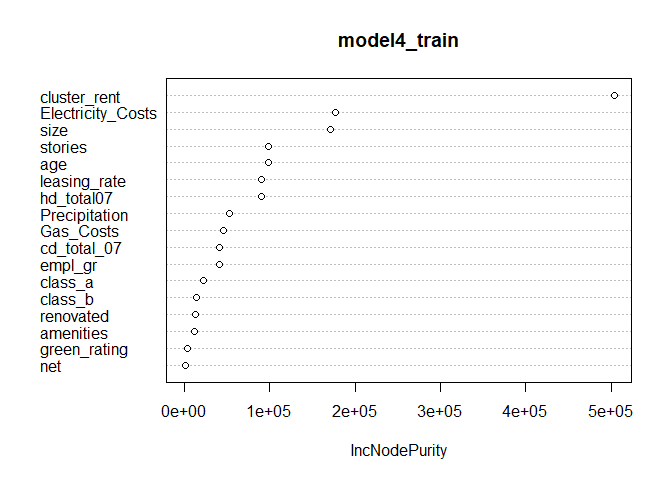
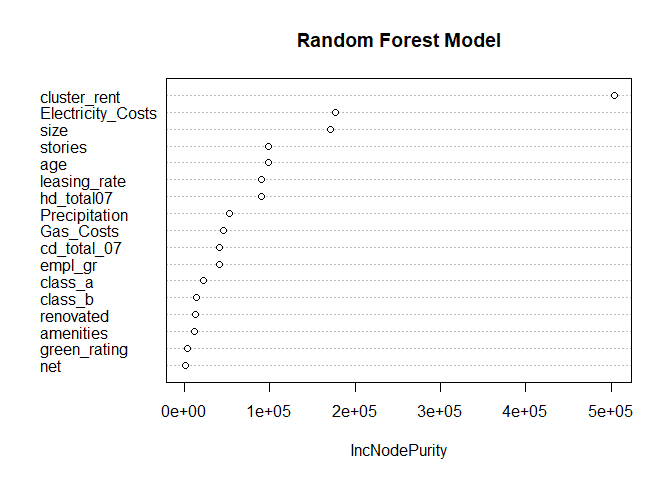
x

Changed region(s): [[0.4375, 0.0625, 0.75, 0.125]]

diff --git a/HW3_1.md b/HW3_1.md
@@ -499,6 +499,9 @@ above, but the third influential variable is slightly different, too.
     ## green_rating           green_rating  0.033847466
     ## net                             net  0.006010983
 
+Why is this diagram so ugly? Why doesn’t written results show up here
+unlike r scrpit?
+
 ### Which model shows the best performance?
 
 By using K-fold cross validation, we derived 5 RMSE out of 5 models as
